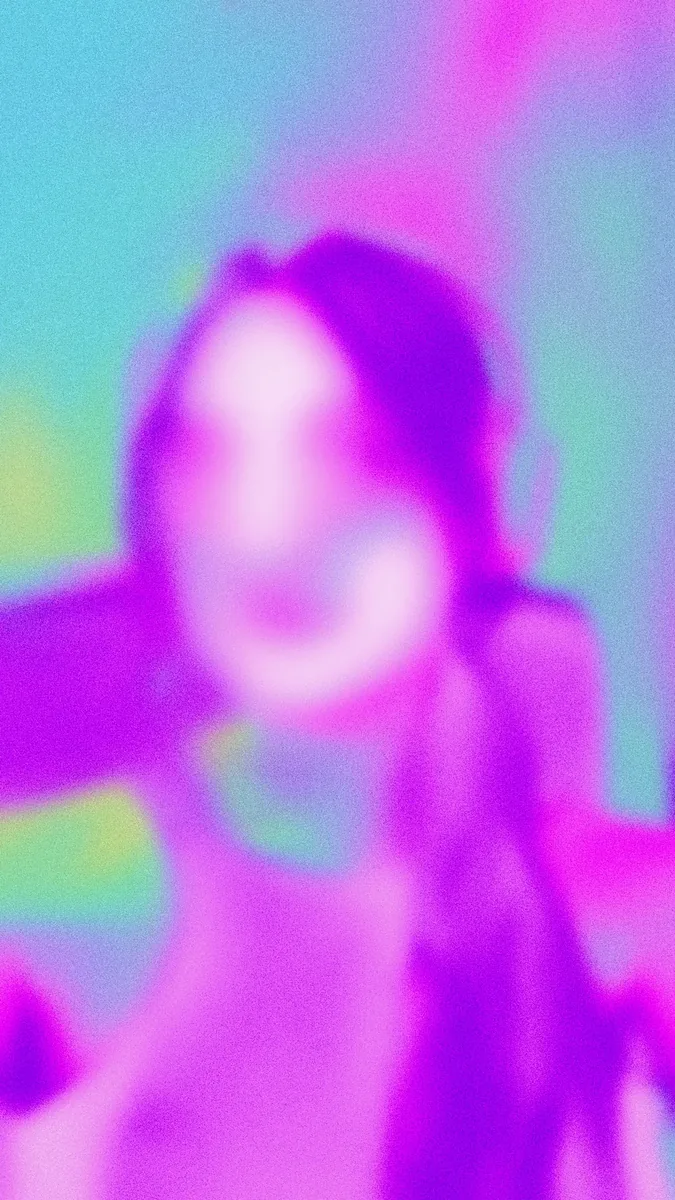
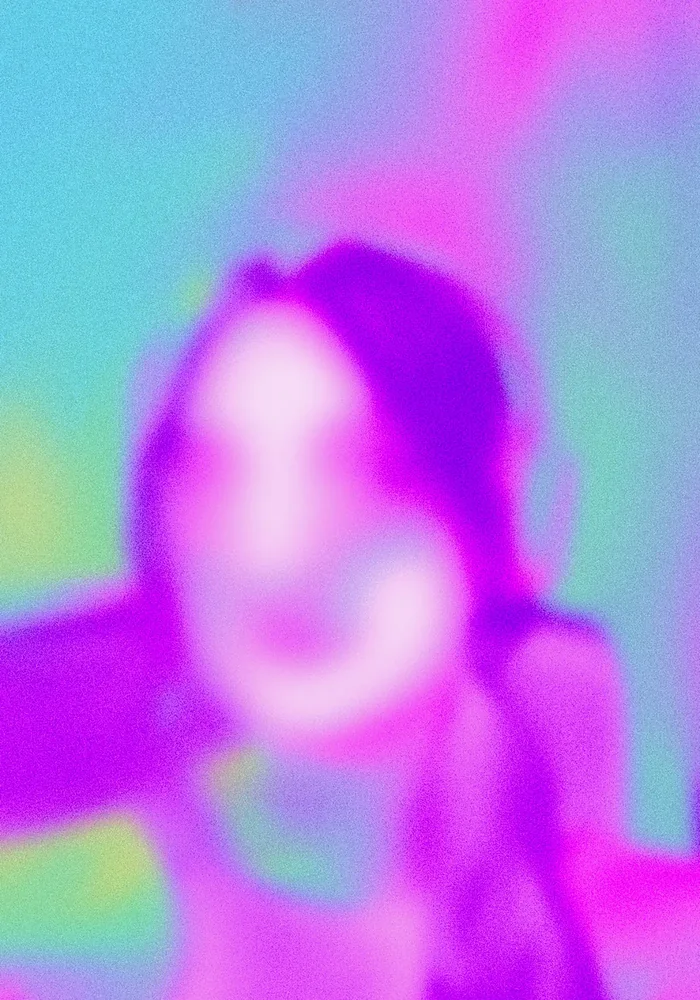
About: calmer layout, no italics, matching heat maps, pink flowers
The photo (cut from its print border, which is now drawn in CSS) sits
beside a quiet two-column list of facts with small pink labels, age 21
in Wasted Vindey; the curved leads, chips and italic labels are gone.
The new heat maps have the photo's exact framing, so the cursor reveals
them one to one. Flowers are all pink, on dark-blue stems with
aquamarine leaves and ground.

Claude-Session: https://claude.ai/code/session_01DvA43kwznhfsetrajp2DeL

diff --git a/styles.css b/styles.css
@@ -503,77 +503,56 @@ a:focus-visible { outline: 2px solid var(--white); outline-offset: 4px; }
 .fg-eyebrow { display: inline-flex; align-items: center; gap: 14px; margin: 0; font: 600 13px/1 var(--font-body); letter-spacing: .32em; text-transform: uppercase; color: var(--fg-deep); }
 .fg-eyebrow i { width: 9px; height: 9px; background: var(--fg-pink); -webkit-mask: var(--star6) center / contain no-repeat; mask: var(--star6) center / contain no-repeat; transform: scale(1.6); }
 .fg-name {
-  margin: clamp(6px, 1vw, 14px) 0 0; font: 400 clamp(72px, 12.5vw, 196px)/.92 "Wasted Vindey", serif; color: var(--fg-pink);
+  margin: clamp(6px, 1vw, 14px) 0 0; font: 400 clamp(64px, 9vw, 140px)/.95 "Wasted Vindey", serif; color: var(--fg-pink);
   letter-spacing: -.01em; white-space: nowrap;
 }
 
-/* the plate: notes on both sides of the polaroid, joined to it by curved teal leads */
+/* the plate: the photo and a calm list of facts beside it */
 .plate {
-  --lead: clamp(70px, 8vw, 120px);
-  display: grid; grid-template-columns: minmax(0, 1fr) auto minmax(0, 1fr); column-gap: var(--lead); align-items: center;
-  max-width: 1240px; margin: clamp(-60px, -3.5vw, -24px) auto 0; position: relative;
+  display: grid; grid-template-columns: auto minmax(0, 560px); justify-content: center; align-items: center; gap: clamp(40px, 6vw, 96px);
+  max-width: 1180px; margin: clamp(34px, 4vw, 56px) auto 0;
 }
-.notes { list-style: none; margin: 0; padding: 0; display: grid; gap: clamp(34px, 5vw, 64px); }
-.notes li { position: relative; display: grid; gap: 8px; }
-.notes b { font: italic 400 clamp(22px, 1.9vw, 28px)/1 var(--f-seasons); color: var(--fg-deep); letter-spacing: 0; text-transform: none; }
-.notes li > span { font: 400 clamp(15px, 1.15vw, 17px)/1.55 var(--font-body); color: var(--fg-ink); }
-.notes.left li { text-align: right; justify-items: end; }
-.notes .lead { position: absolute; top: 4px; width: calc(var(--lead) - 8px); height: 54px; overflow: visible; }
-.notes.left .lead { right: calc(-1 * var(--lead) + 4px); }
-.notes.right .lead { left: calc(-1 * var(--lead) + 4px); transform: scaleX(-1); }
-.notes .lead path { fill: none; stroke: var(--fg-lead); stroke-width: 1.6; stroke-linecap: round; vector-effect: non-scaling-stroke; stroke-dasharray: 160; stroke-dashoffset: 160; transition: stroke-dashoffset 1.2s cubic-bezier(.3, .8, .3, 1); }
-.plate.in .notes .lead path { stroke-dashoffset: 0; }
-.notes li:nth-child(2) .lead path { transition-delay: .15s; }
-.notes li:nth-child(3) .lead path { transition-delay: .3s; }
-.notes li::before, .notes li::after { content: none; }
-.code { display: flex; flex-wrap: wrap; gap: 6px; justify-content: inherit; margin-top: 4px; }
-.code code { font: 500 13px/1 var(--font-body); padding: 6px 10px; border-radius: 999px; background: #fff; border: 1px solid rgba(231, 112, 178, .35); color: var(--fg-deep); }
-.interests { display: flex !important; flex-wrap: wrap; gap: 8px; }
-.interests > span { padding: 6px 14px 7px; border-radius: 999px; color: #fff; font: 500 14px/1.1 var(--font-body); background: var(--fg-pink); }
-.interests > span:nth-child(2) { background: var(--c-teal); }
-.interests > span:nth-child(3) { background: var(--c-blue); }
+.facts-list { display: grid; grid-template-columns: 1fr 1fr; gap: 0 clamp(24px, 3vw, 40px); margin: 0; }
+.facts-list > div { padding: 18px 0 20px; border-top: 1px solid rgba(231, 112, 178, .28); }
+.facts-list > div.wide { grid-column: 1 / -1; }
+.facts-list dt { font: 600 12px/1 var(--font-body); letter-spacing: .24em; text-transform: uppercase; color: var(--fg-pink); }
+.facts-list dd { margin: 10px 0 0; font: 400 clamp(16px, 1.3vw, 19px)/1.45 var(--font-body); color: var(--fg-ink); }
+.facts-list > div:first-child dd { font: 400 clamp(44px, 4vw, 60px)/.9 "Wasted Vindey", serif; color: var(--fg-pink); }
 
-/* the polaroid on a pink glow; the photo becomes a heat map under the cursor (about.js) */
+/* the photo in a white print border on a pink glow; it becomes a heat map under the cursor */
 .portrait { margin: 0; display: grid; justify-items: center; gap: 14px; position: relative; }
-.portrait::before { content: ""; position: absolute; z-index: -1; inset: -22% -40%; background: radial-gradient(closest-side, rgba(240, 140, 205, .55), rgba(240, 140, 205, .22) 55%, transparent); pointer-events: none; }
-.polaroid { position: relative; width: clamp(240px, 24vw, 340px); aspect-ratio: 982 / 1440; cursor: crosshair; touch-action: pan-y;
-  transform: rotate(-2deg) scale(.94); transition: transform 1.1s cubic-bezier(.2, 1.2, .3, 1); filter: drop-shadow(0 26px 34px rgba(201, 65, 142, .22)); }
-.plate.in .polaroid { transform: rotate(0) scale(1); }
-.polaroid .me, .polaroid .heat { position: absolute; inset: 0; width: 100%; height: 100%; }
-.polaroid .heat { pointer-events: none; }
-.age-star { position: absolute; left: -13%; bottom: 7%; width: 30%; aspect-ratio: 1; display: grid; place-items: center; rotate: 12deg; }
-.age-burst { position: absolute; inset: 0; width: 100%; height: 100%; overflow: visible; animation: age-spin 18s linear infinite; }
-.age-burst polygon { fill: var(--fg-pink); stroke: var(--fg-pink); stroke-width: 6; stroke-linejoin: round; }
-@keyframes age-spin { to { rotate: 360deg; } }
-.age-txt { position: relative; display: grid; justify-items: center; font: 400 clamp(28px, 2.6vw, 38px)/.85 "Wasted Vindey", serif; color: #fff; }
-.age-txt small { font: 600 9px/1 var(--font-body); letter-spacing: .3em; text-transform: uppercase; margin-bottom: 3px; }
-.heat-hint { font: 600 11px/1 var(--font-body); letter-spacing: .3em; text-transform: uppercase; color: var(--fg-deep); opacity: .75; transition: opacity .6s; }
+.portrait::before { content: ""; position: absolute; z-index: -1; inset: -18% -30%; background: radial-gradient(closest-side, rgba(240, 140, 205, .45), rgba(240, 140, 205, .16) 55%, transparent); pointer-events: none; }
+.photo-card { padding: 4.5% 4.5% 13%; background: #fff; box-shadow: 0 30px 50px -34px rgba(201, 65, 142, .45); transform: rotate(-1.5deg); }
+.photo { position: relative; width: clamp(230px, 23vw, 330px); aspect-ratio: 700 / 1000; cursor: crosshair; touch-action: pan-y; overflow: hidden; }
+.photo .me, .photo .heat { position: absolute; inset: 0; width: 100%; height: 100%; display: block; }
+.photo .heat { pointer-events: none; }
+.heat-hint { font: 600 11px/1 var(--font-body); letter-spacing: .3em; text-transform: uppercase; color: var(--fg-pink); transition: opacity .6s; }
 .heat-hint.gone { opacity: 0; }
 
-/* main tools: flowers in the site's pink, teal and blue, three patches without labels */
-.toolbox { max-width: 1180px; margin: clamp(70px, 9vw, 130px) auto 0; padding-top: 30px; text-align: left; }
-@media (min-width: 821px) { .cloudpop .plate { min-height: calc(100svh - 360px); } }
-.toolbox h3 { display: block; font: 700 clamp(56px, 7vw, 104px)/1 var(--f-seasons); color: var(--fg-pink); margin: 0 0 clamp(30px, 4vw, 56px); }
+/* main tools: pink flowers on dark-blue stems with aquamarine leaves, three patches without labels */
+.toolbox { max-width: 1180px; margin: clamp(80px, 10vw, 140px) auto 0; padding-top: 30px; text-align: left; }
+@media (min-width: 821px) { .cloudpop .plate { min-height: calc(100svh - 380px); } }
+.toolbox h3 { display: block; font: 700 clamp(48px, 5.6vw, 84px)/1 var(--f-seasons); color: var(--fg-pink); margin: 0 0 clamp(30px, 4vw, 56px); }
 .tool-groups { display: grid; grid-template-columns: auto auto; justify-content: space-between; align-items: end; gap: clamp(30px, 4vw, 60px) clamp(32px, 5vw, 80px); }
 .tools.g3 { grid-column: 1 / -1; justify-self: center; }
-.tool .burst polygon { fill: var(--fc, var(--fg-pink)); stroke: var(--fc, var(--fg-pink)); }
-.tool:nth-child(3n+2) { --fc: var(--c-teal); }
-.tool:nth-child(3n) { --fc: var(--c-blue); }
-.tool .word { color: var(--fc, var(--fg-deep)); }
-.tool:nth-child(3n+1) .word { color: var(--fg-deep); }
+.cloudpop .tool .burst polygon { fill: var(--fg-pink); stroke: var(--fg-pink); }
+.cloudpop .tool .word { color: var(--fg-deep); }
+.cloudpop .stem .st { stroke: var(--c-blue); }
+.cloudpop .stem .lf, .cloudpop .stem .lf.r { fill: var(--c-teal); }
+.cloudpop .tools { background: radial-gradient(60% 28px at 50% 100%, color-mix(in srgb, var(--c-teal) 30%, #fff) 0 98%, transparent) bottom / 100% 28px no-repeat; }
 
 .cp-more { color: var(--fg-deep); font: 600 12px/1 var(--font-body); letter-spacing: .24em; box-shadow: 0 10px 30px -14px rgba(201, 65, 142, .5); }
 .cp-more svg { stroke: var(--fg-pink); }
 .cloudpop .cp-close { background: var(--fg-pink); color: #fff; border: 0; }
 
 @media (max-width: 820px) {
-  .fg-name { white-space: normal; font-size: clamp(64px, 19vw, 110px); line-height: .95; }
-  .plate { grid-template-columns: minmax(0, 1fr); row-gap: 36px; margin-top: 24px; }
-  .portrait { order: -1; }
+  .fg-name { white-space: normal; font-size: clamp(60px, 17vw, 100px); }
+  .plate { grid-template-columns: minmax(0, 1fr); justify-items: center; gap: 36px; }
   .portrait::before { inset: -10% -12%; }
-  .notes.left li, .notes.right li { text-align: left; justify-items: start; padding-left: 18px; border-left: 2px solid var(--fg-lead); }
-  .notes .lead { display: none; }
-  .code { justify-content: flex-start; }
+  .facts-list { width: 100%; }
+}
+@media (max-width: 560px) {
+  .facts-list { grid-template-columns: minmax(0, 1fr); }
   .tool-groups { grid-template-columns: minmax(0, 1fr); justify-items: center; }
 }
 @media (prefers-reduced-motion: reduce) {

diff --git a/index.html b/index.html
@@ -11,7 +11,7 @@
   <link rel="preconnect" href="https://use.typekit.net" crossorigin>
   <link rel="stylesheet" href="https://use.typekit.net/gfn8yzd.css">
   <link rel="stylesheet" href="https://fonts.cdnfonts.com/css/wasted-vindey">
-  <link rel="stylesheet" href="styles.css?v=77a3e52d">
+  <link rel="stylesheet" href="styles.css?v=c3c1a7bd">
   <script>document.documentElement.classList.add('js', 'is-loading')</script>
 </head>
 <body>
@@ -193,25 +193,24 @@
       <h2 id="about-h" class="fg-name">Nika Saracuta</h2>
     </header>
 
+    <!-- the photo on the left (it turns into a heat map under the cursor, about.js), the facts on the right -->
     <div class="plate" id="plate">
-      <ul class="notes left">
-        <li><b>Studies</b><span>Digital Design &amp; Development, third year</span><svg class="lead" viewBox="0 0 120 54" aria-hidden="true"><path d="M2 8 C52 8 60 46 118 46"/></svg></li>
-        <li><b>Specialises in</b><span>Visual design &amp; experience design</span><svg class="lead" viewBox="0 0 120 54" aria-hidden="true"><path d="M2 27 L118 27"/></svg></li>
-        <li><b>Speaks</b><span>Italian, Russian, French, English, Chinese</span><span class="code"><code>&lt;html&gt;</code><code>{ css }</code><code>js()</code></span><svg class="lead" viewBox="0 0 120 54" aria-hidden="true"><path d="M2 46 C52 46 60 8 118 8"/></svg></li>
-      </ul>
       <figure class="portrait">
-        <div class="polaroid" id="polaroid">
-          <img class="me" src="assets/about/me.webp" width="982" height="1440" alt="Portrait of Nika Saracuta">
+        <div class="photo-card"><div class="photo" id="polaroid">
+          <img class="me" src="assets/about/me.webp" width="700" height="1000" alt="Portrait of Nika Saracuta">
           <canvas class="heat" id="heat" aria-hidden="true"></canvas>
-          <span class="age-star"><svg class="age-burst" viewBox="0 0 100 100" aria-hidden="true"><polygon points="50.0,2.0 58.7,12.0 70.8,6.8 74.3,19.5 87.5,20.1 85.1,33.1 96.8,39.3 89.0,50.0 96.8,60.7 85.1,66.9 87.5,79.9 74.3,80.5 70.8,93.2 58.7,88.0 50.0,98.0 41.3,88.0 29.2,93.2 25.7,80.5 12.5,79.9 14.9,66.9 3.2,60.7 11.0,50.0 3.2,39.3 14.9,33.1 12.5,20.1 25.7,19.5 29.2,6.8 41.3,12.0"/></svg><span class="age-txt"><small>age</small>21</span></span>
-        </div>
+        </div></div>
         <figcaption class="heat-hint" id="heatHint">Move over the photo</figcaption>
       </figure>
-      <ul class="notes right">
-        <li><b>Drawn to</b><span class="interests"><span>Sustainability</span><span>Nature &amp; science</span><span>Art</span></span><svg class="lead" viewBox="0 0 120 54" aria-hidden="true"><path d="M2 8 C52 8 60 46 118 46"/></svg></li>
-        <li><b>Inspired by</b><span>All kinds of creative fields</span><svg class="lead" viewBox="0 0 120 54" aria-hidden="true"><path d="M2 27 L118 27"/></svg></li>
-        <li><b>Status</b><span><i class="pulse" aria-hidden="true"></i>Looking for an internship<br>February 15 – May 21, 2027!</span><svg class="lead" viewBox="0 0 120 54" aria-hidden="true"><path d="M2 46 C52 46 60 8 118 8"/></svg></li>
-      </ul>
+      <dl class="facts-list">
+        <div><dt>Age</dt><dd>21</dd></div>
+        <div><dt>Studies</dt><dd>Digital Design &amp; Development, third year</dd></div>
+        <div><dt>Specialises in</dt><dd>Visual design &amp; experience design</dd></div>
+        <div><dt>Speaks</dt><dd>Italian, Russian, French, English, Chinese</dd></div>
+        <div><dt>Drawn to</dt><dd>Sustainability, nature &amp; science, art</dd></div>
+        <div><dt>Inspired by</dt><dd>All kinds of creative fields</dd></div>
+        <div class="wide"><dt>Status</dt><dd><i class="pulse" aria-hidden="true"></i>Looking for an internship, February 15 – May 21, 2027</dd></div>
+      </dl>
     </div>
 
     <!-- scroll cue: the tools are below the plate (about.js hides it once you scroll) -->
@@ -230,7 +229,7 @@
 
   <script src="loader.js?v=68ee955a"></script>
   <script src="script.js?v=7b043eab"></script>
-  <script src="about.js?v=aaad3cd2"></script>
+  <script src="about.js?v=825ec8b2"></script>
   <script src="bird.js?v=8eddadd7"></script>
   <script src="chameleon.js?v=906a5f92"></script>
 </body>

diff --git a/about.js b/about.js
@@ -5,7 +5,7 @@
   const reduce = matchMedia('(prefers-reduced-motion: reduce)').matches;
   const $ = (s) => document.querySelector(s);
 
-  // The polaroid: wherever the cursor (or a finger) passes, soft patches of the photo
+  // The photo: wherever the cursor (or a finger) passes, soft patches of the photo
   // turn into one of two heat-map versions and fade back after a moment.
   (() => {
     const box = $('#polaroid'), cv = $('#heat'), hint = $('#heatHint');
@@ -13,8 +13,6 @@
     if (matchMedia('(pointer: coarse)').matches) hint.textContent = 'Drag over the photo';
     const ctx = cv.getContext('2d'), mask = document.createElement('canvas'), mctx = mask.getContext('2d');
     const heats = ['assets/about/heat-a.webp', 'assets/about/heat-b.webp'].map((src) => { const i = new Image(); i.src = src; return i; });
-    // the photo inside the polaroid image (982 x 1440), corner by corner
-    const Q = [[100, 43], [910, 61], [886, 1271], [72, 1255]], IW = 982, IH = 1440;
     let blobs = [], raf = 0, W = 0, H = 0, last = null, piece = 0, count = 0;
     const LIFE = 1700;
     const size = () => {
@@ -23,15 +21,8 @@
       cv.width = mask.width = Math.round(W * d); cv.height = mask.height = Math.round(H * d);
       ctx.setTransform(d, 0, 0, d, 0, 0); mctx.setTransform(d, 0, 0, d, 0, 0);
     };
-    const clip = (c) => {
-      c.beginPath(); Q.forEach(([x, y], i) => c[i ? 'lineTo' : 'moveTo'](x / IW * W, y / IH * H)); c.closePath();
-    };
-    // where the heat map sits over the photo, so its blurred face lines up with the real one
-    const place = () => {
-      const pl = Q[3][0] / IW * W, pt = Q[0][1] / IH * H, pw = (Q[1][0] - Q[0][0]) / IW * W;
-      const w = pw * 1.2, h = w * 2000 / 1125;
-      return [pl - pw * .02, pt + pw * .19, w, h];
-    };
+    // the heat maps are cut exactly like the photo, so they cover it one to one
+    const place = () => [0, 0, W, H];
     const draw = (now) => {
       blobs = blobs.filter((b) => now - b.t < LIFE);
       ctx.clearRect(0, 0, W, H);
@@ -46,7 +37,7 @@
           mctx.fillStyle = g; mctx.fillRect(b.x - b.r, b.y - b.r, b.r * 2, b.r * 2);
         }
         mctx.globalCompositeOperation = 'source-in'; mctx.drawImage(heats[k], hx, hy, hw, hh);
-        ctx.save(); clip(ctx); ctx.clip(); ctx.drawImage(mask, 0, 0, W, H); ctx.restore();
+        ctx.drawImage(mask, 0, 0, W, H);
       }
       raf = blobs.length ? requestAnimationFrame(draw) : 0;
     };

diff --git a/dior.html b/dior.html
@@ -11,7 +11,7 @@
   <link rel="preconnect" href="https://use.typekit.net" crossorigin>
   <link rel="stylesheet" href="https://use.typekit.net/gfn8yzd.css">
   <link rel="stylesheet" href="https://fonts.cdnfonts.com/css/wasted-vindey">
-  <link rel="stylesheet" href="styles.css?v=77a3e52d">
+  <link rel="stylesheet" href="styles.css?v=c3c1a7bd">
   <link rel="stylesheet" href="project.css?v=be8613ac">
   <script>document.documentElement.classList.add('js')</script>
 </head>

diff --git a/miles.html b/miles.html
@@ -11,7 +11,7 @@
   <link rel="preconnect" href="https://use.typekit.net" crossorigin>
   <link rel="stylesheet" href="https://use.typekit.net/gfn8yzd.css">
   <link rel="stylesheet" href="https://fonts.cdnfonts.com/css/wasted-vindey">
-  <link rel="stylesheet" href="styles.css?v=77a3e52d">
+  <link rel="stylesheet" href="styles.css?v=c3c1a7bd">
   <link rel="stylesheet" href="project.css?v=be8613ac">
   <script>document.documentElement.classList.add('js')</script>
 </head>

diff --git a/moea.html b/moea.html
@@ -11,7 +11,7 @@
   <link rel="preconnect" href="https://use.typekit.net" crossorigin>
   <link rel="stylesheet" href="https://use.typekit.net/gfn8yzd.css">
   <link rel="stylesheet" href="https://fonts.cdnfonts.com/css/wasted-vindey">
-  <link rel="stylesheet" href="styles.css?v=77a3e52d">
+  <link rel="stylesheet" href="styles.css?v=c3c1a7bd">
   <link rel="stylesheet" href="project.css?v=be8613ac">
   <script>document.documentElement.classList.add('js')</script>
 </head>

diff --git a/type01.html b/type01.html
@@ -11,7 +11,7 @@
   <link rel="preconnect" href="https://use.typekit.net" crossorigin>
   <link rel="stylesheet" href="https://use.typekit.net/gfn8yzd.css">
   <link rel="stylesheet" href="https://fonts.cdnfonts.com/css/wasted-vindey">
-  <link rel="stylesheet" href="styles.css?v=77a3e52d">
+  <link rel="stylesheet" href="styles.css?v=c3c1a7bd">
   <link rel="stylesheet" href="project.css?v=be8613ac">
   <script>document.documentElement.classList.add('js')</script>
 </head>
